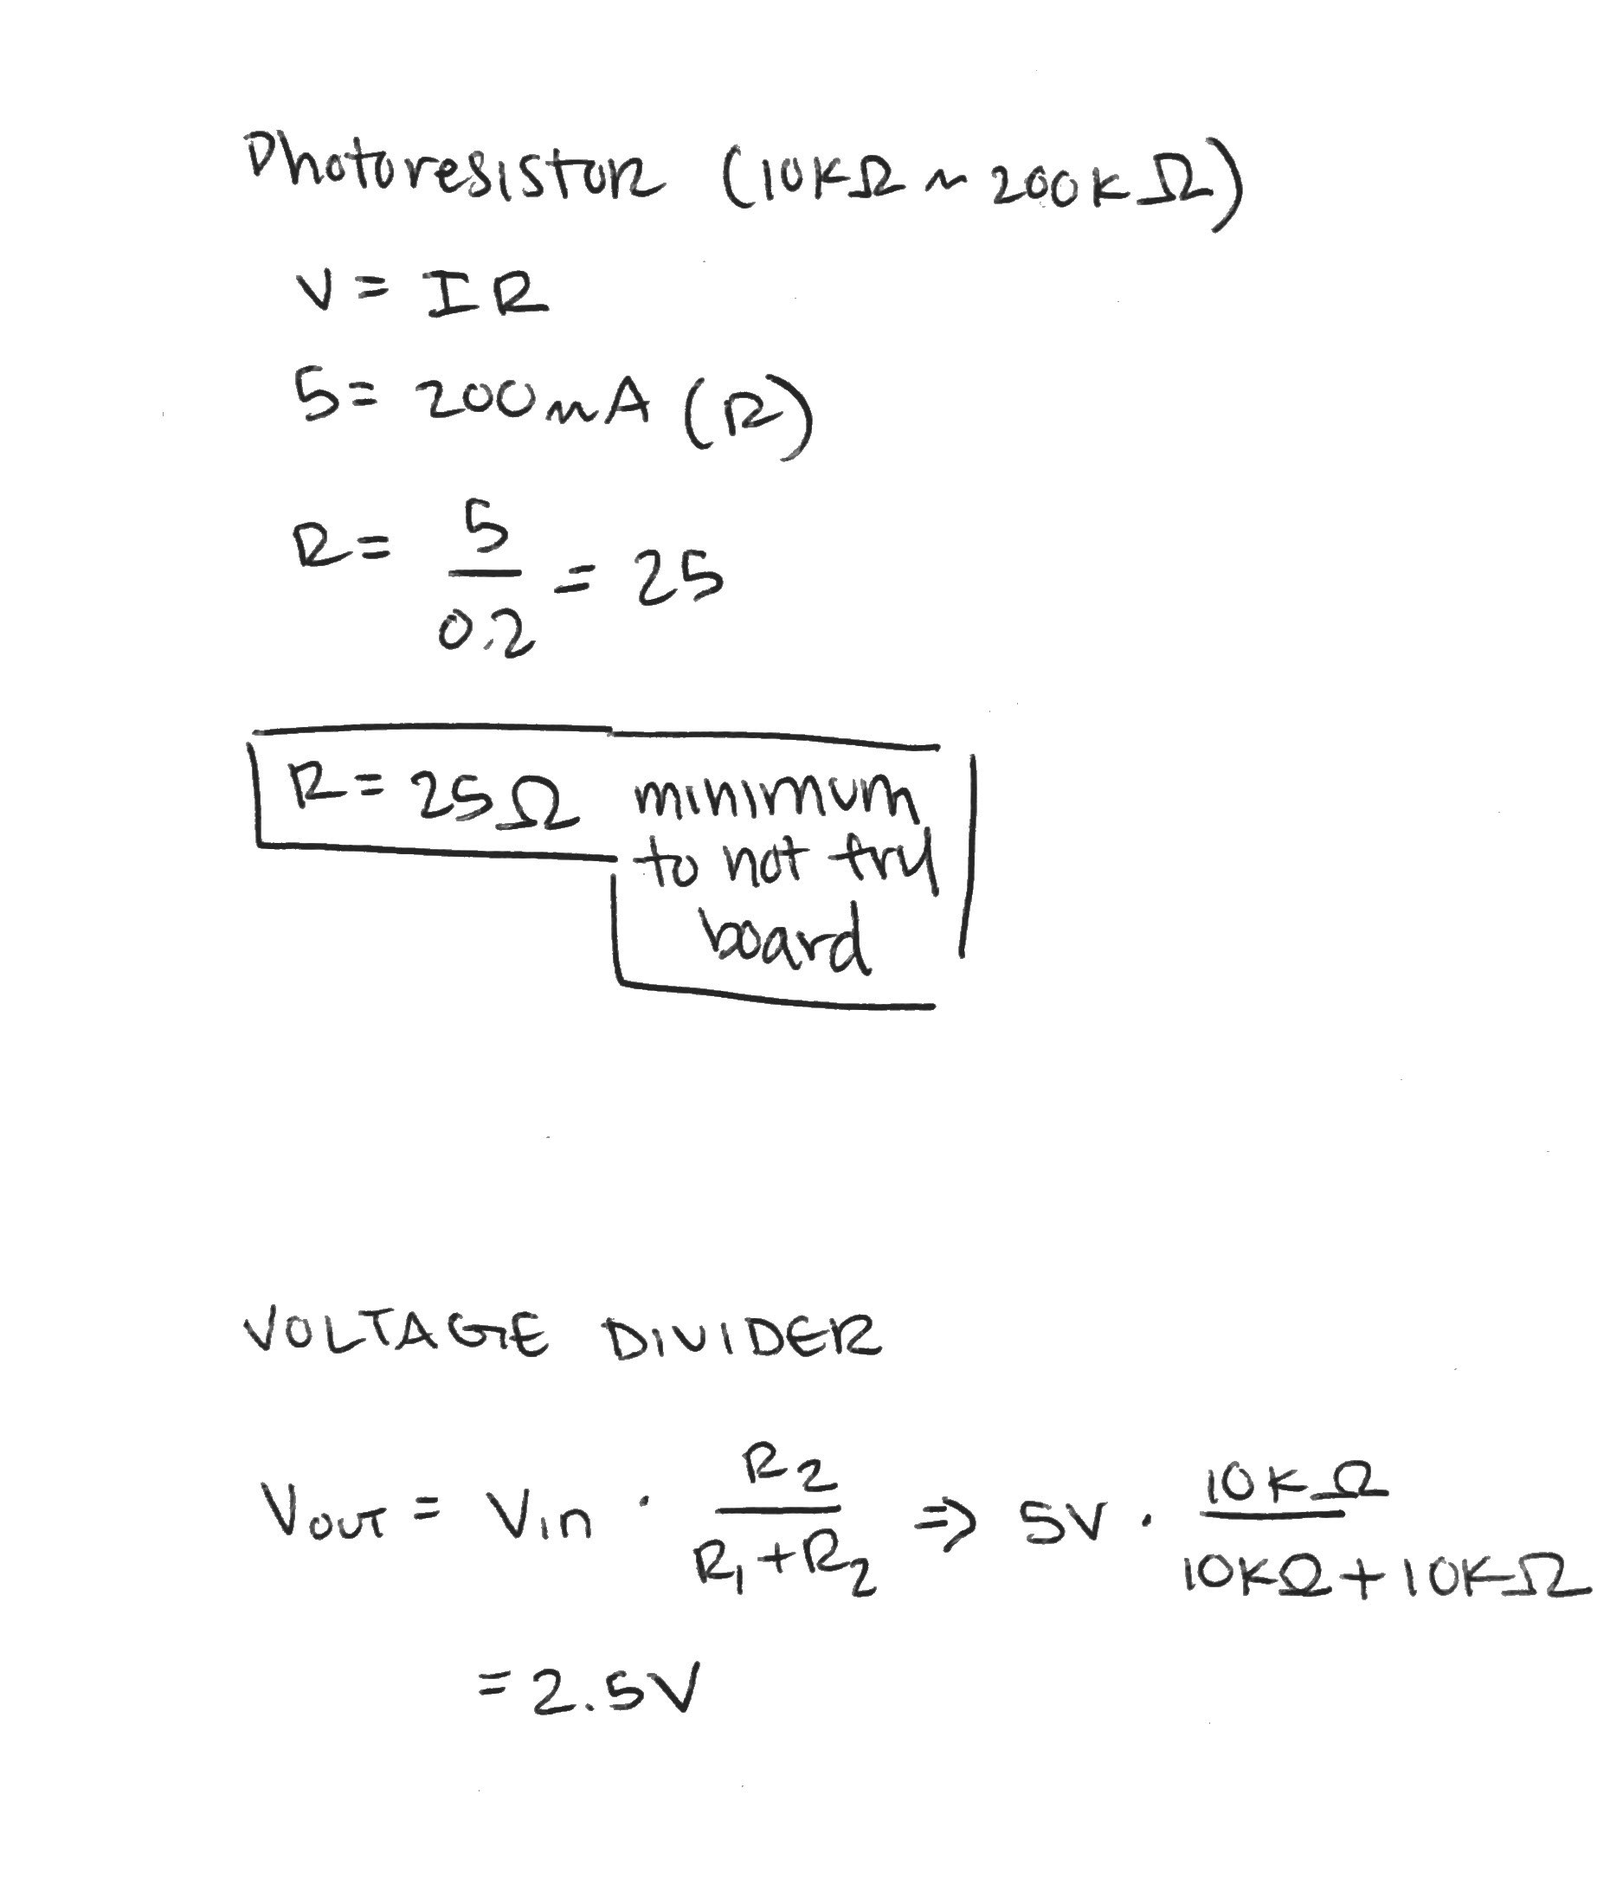
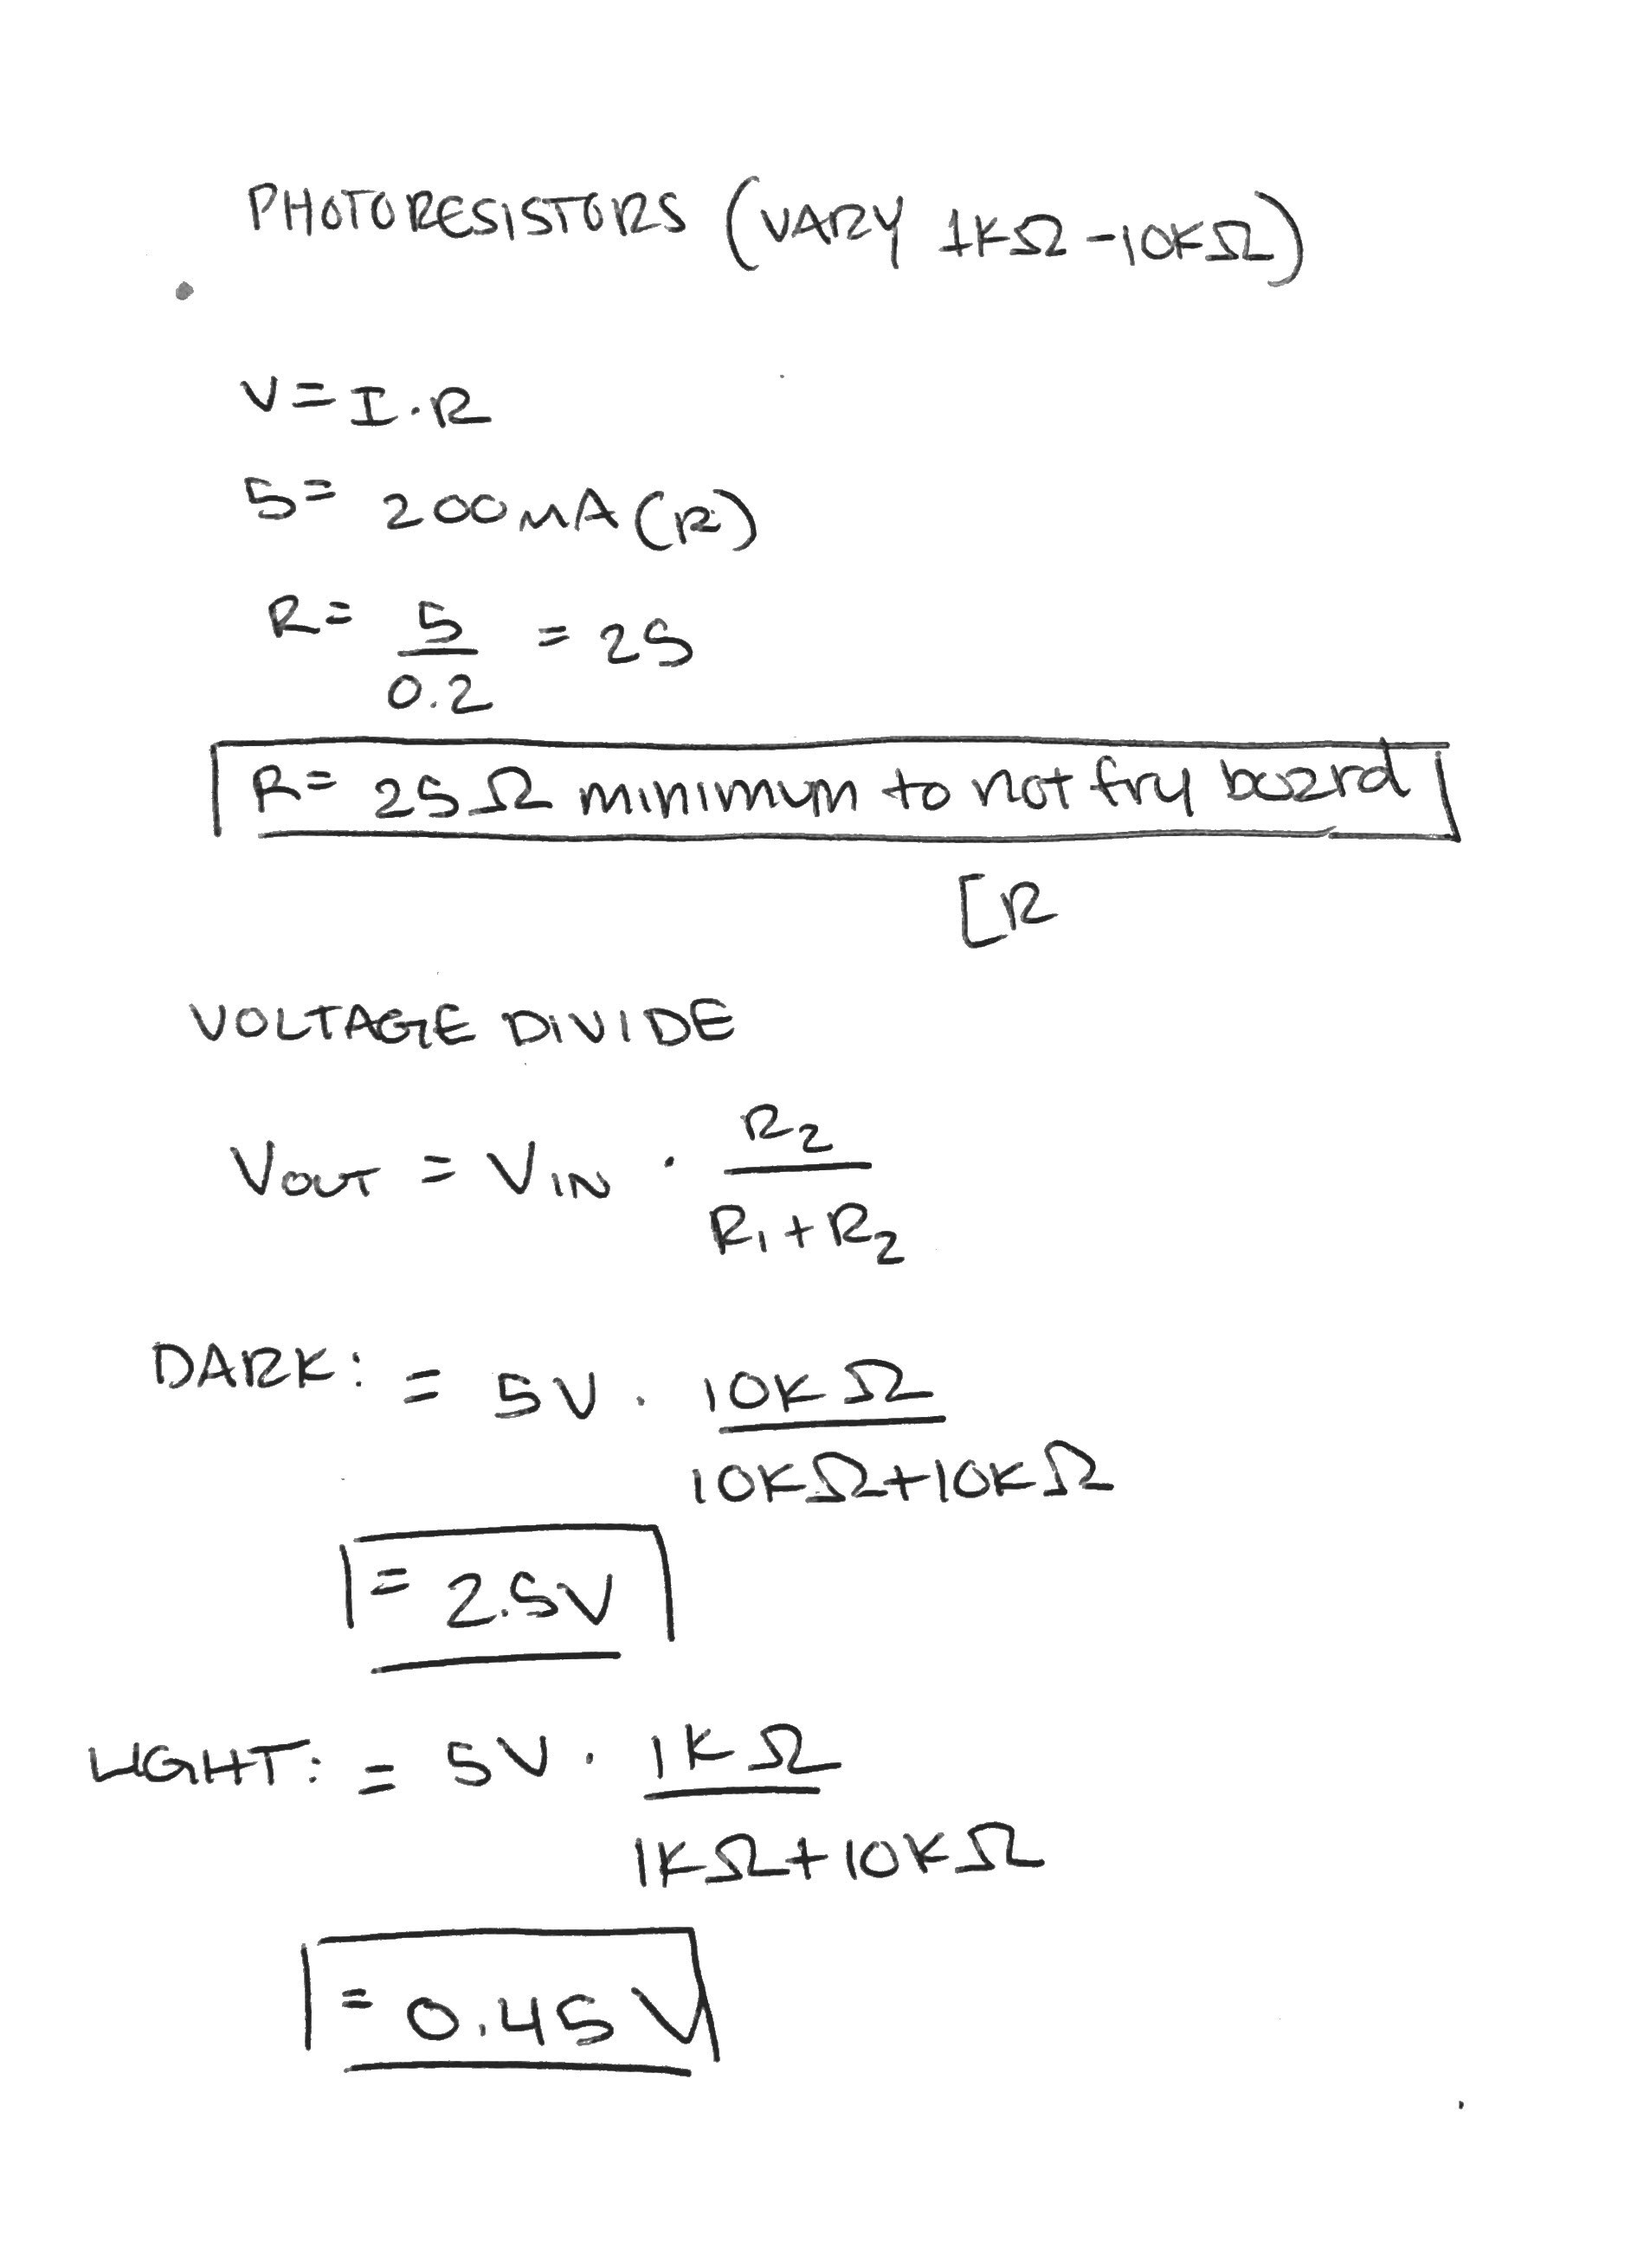
Initial commit

diff --git a/assignment3.html b/assignment3.html
@@ -37,7 +37,7 @@
             <p><img src="inputoutput-resistance.jpeg" width=500></a></p>
             <p>The minimum required total resistance is calculated for the voltage divider based on the max current allowed to ground the pins (200mA). Considering that the range of resistance can vary for the photoresistor, an additional resistor is needed to prevent short circuiting. While the minimimum resistance needed to prevent the board from frying is 25Ω, I used a 10kΩ resistor just to be safe.</p>
             <p><img src="inputoutput-voltage-divide.jpeg" width=500></a></p>
-            <p>The values I might read at the voltage divide can be calculated using the voltage divider equation.</p>
+            <p>The values I might read at the voltage divide can be calculated using the voltage divider equation. A photocell is a variable resistory which can range from 1kΩ in the light to 10kΩ in the dark. The voltage is measured to find the resistance of the light sensor. There is a swing of about 2.45V from light to dark.</p>
           </br>
             <strong><p>Code Snippet:</p></strong>
             <p><img src="inputoutput-snippet.png" width=700></a></p>
